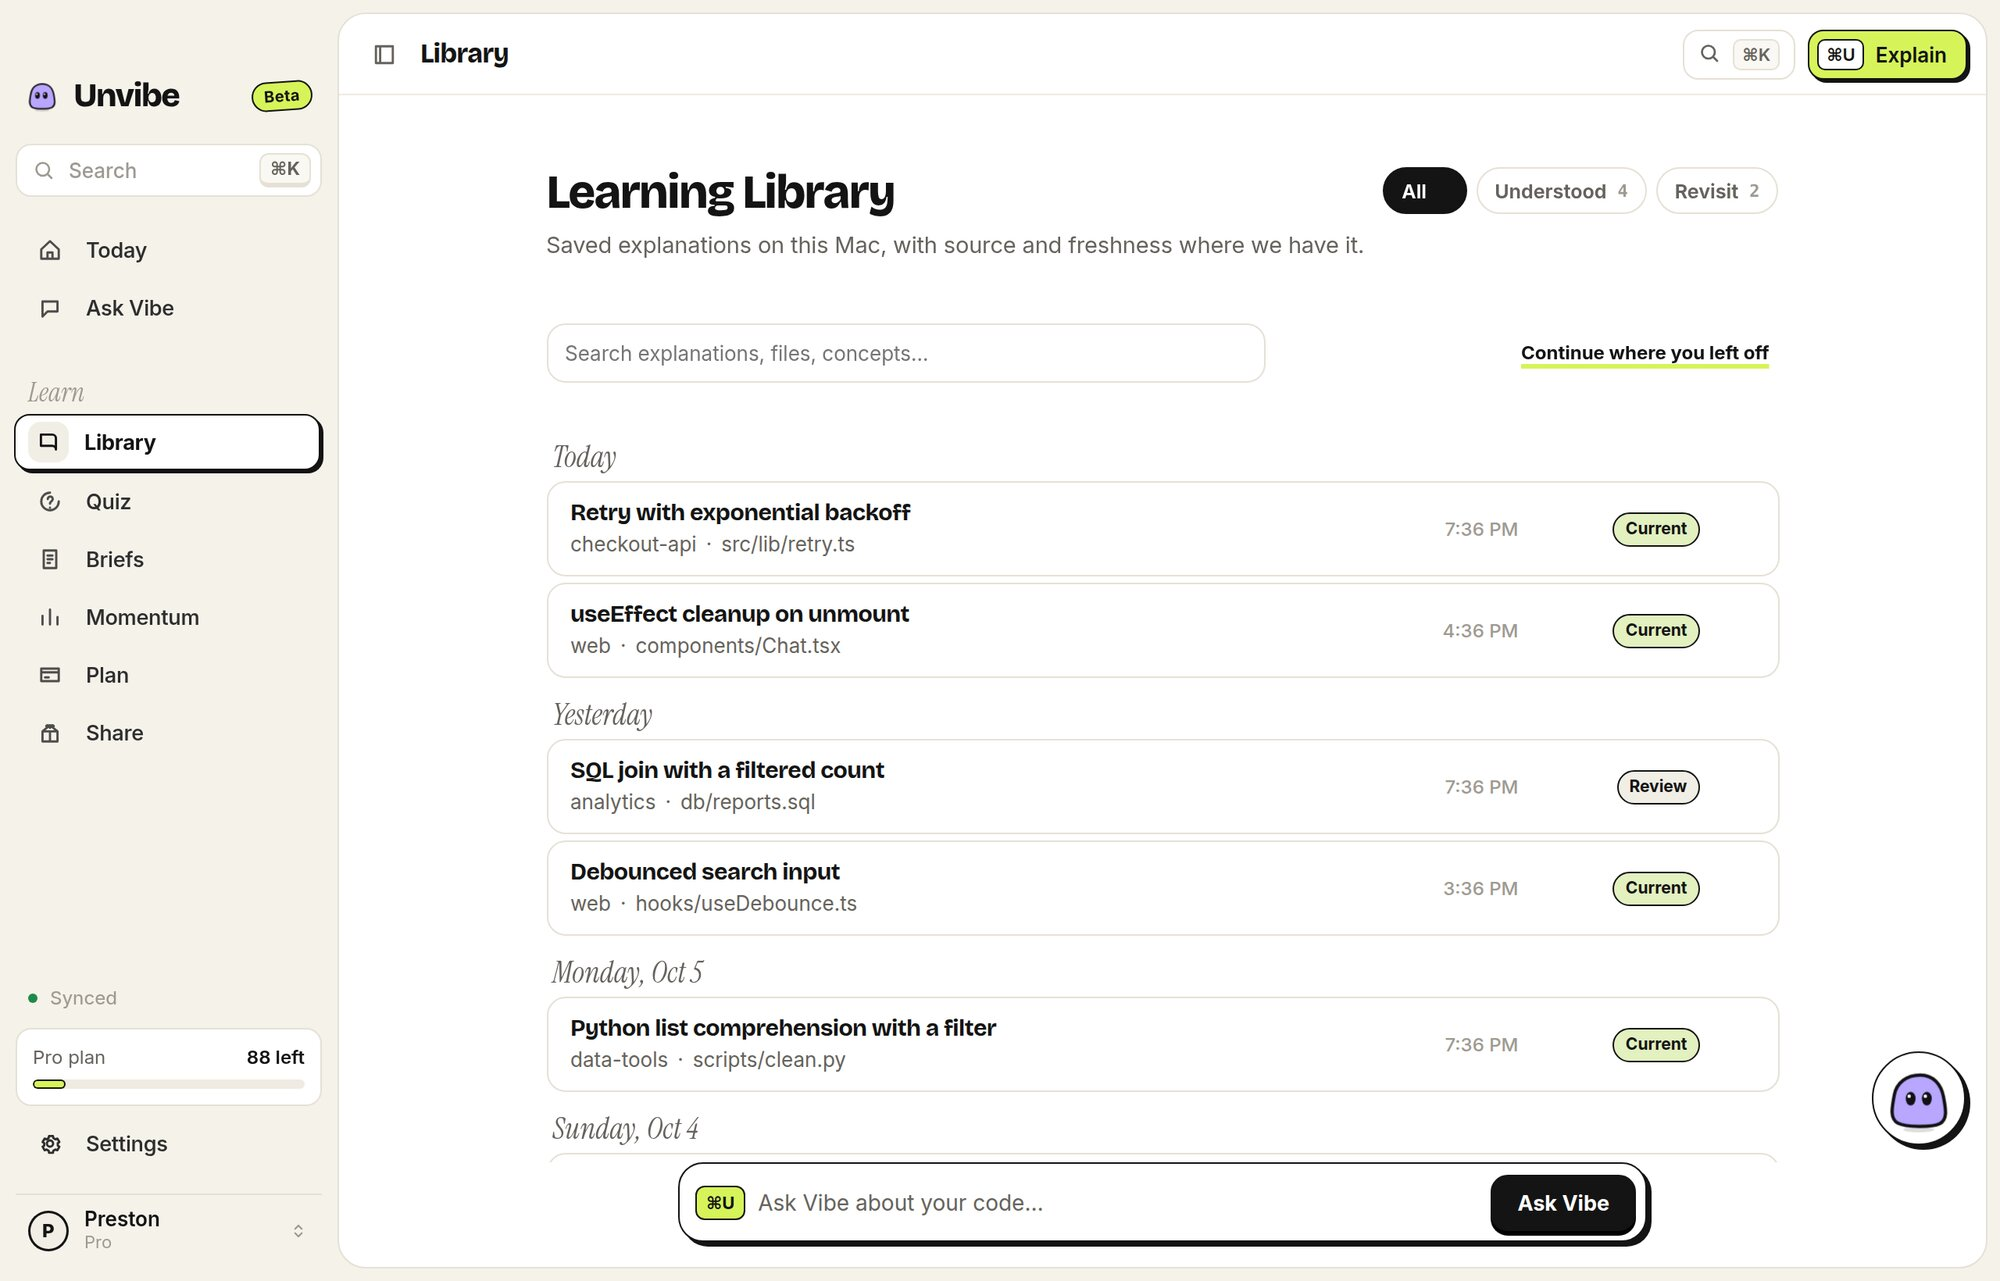
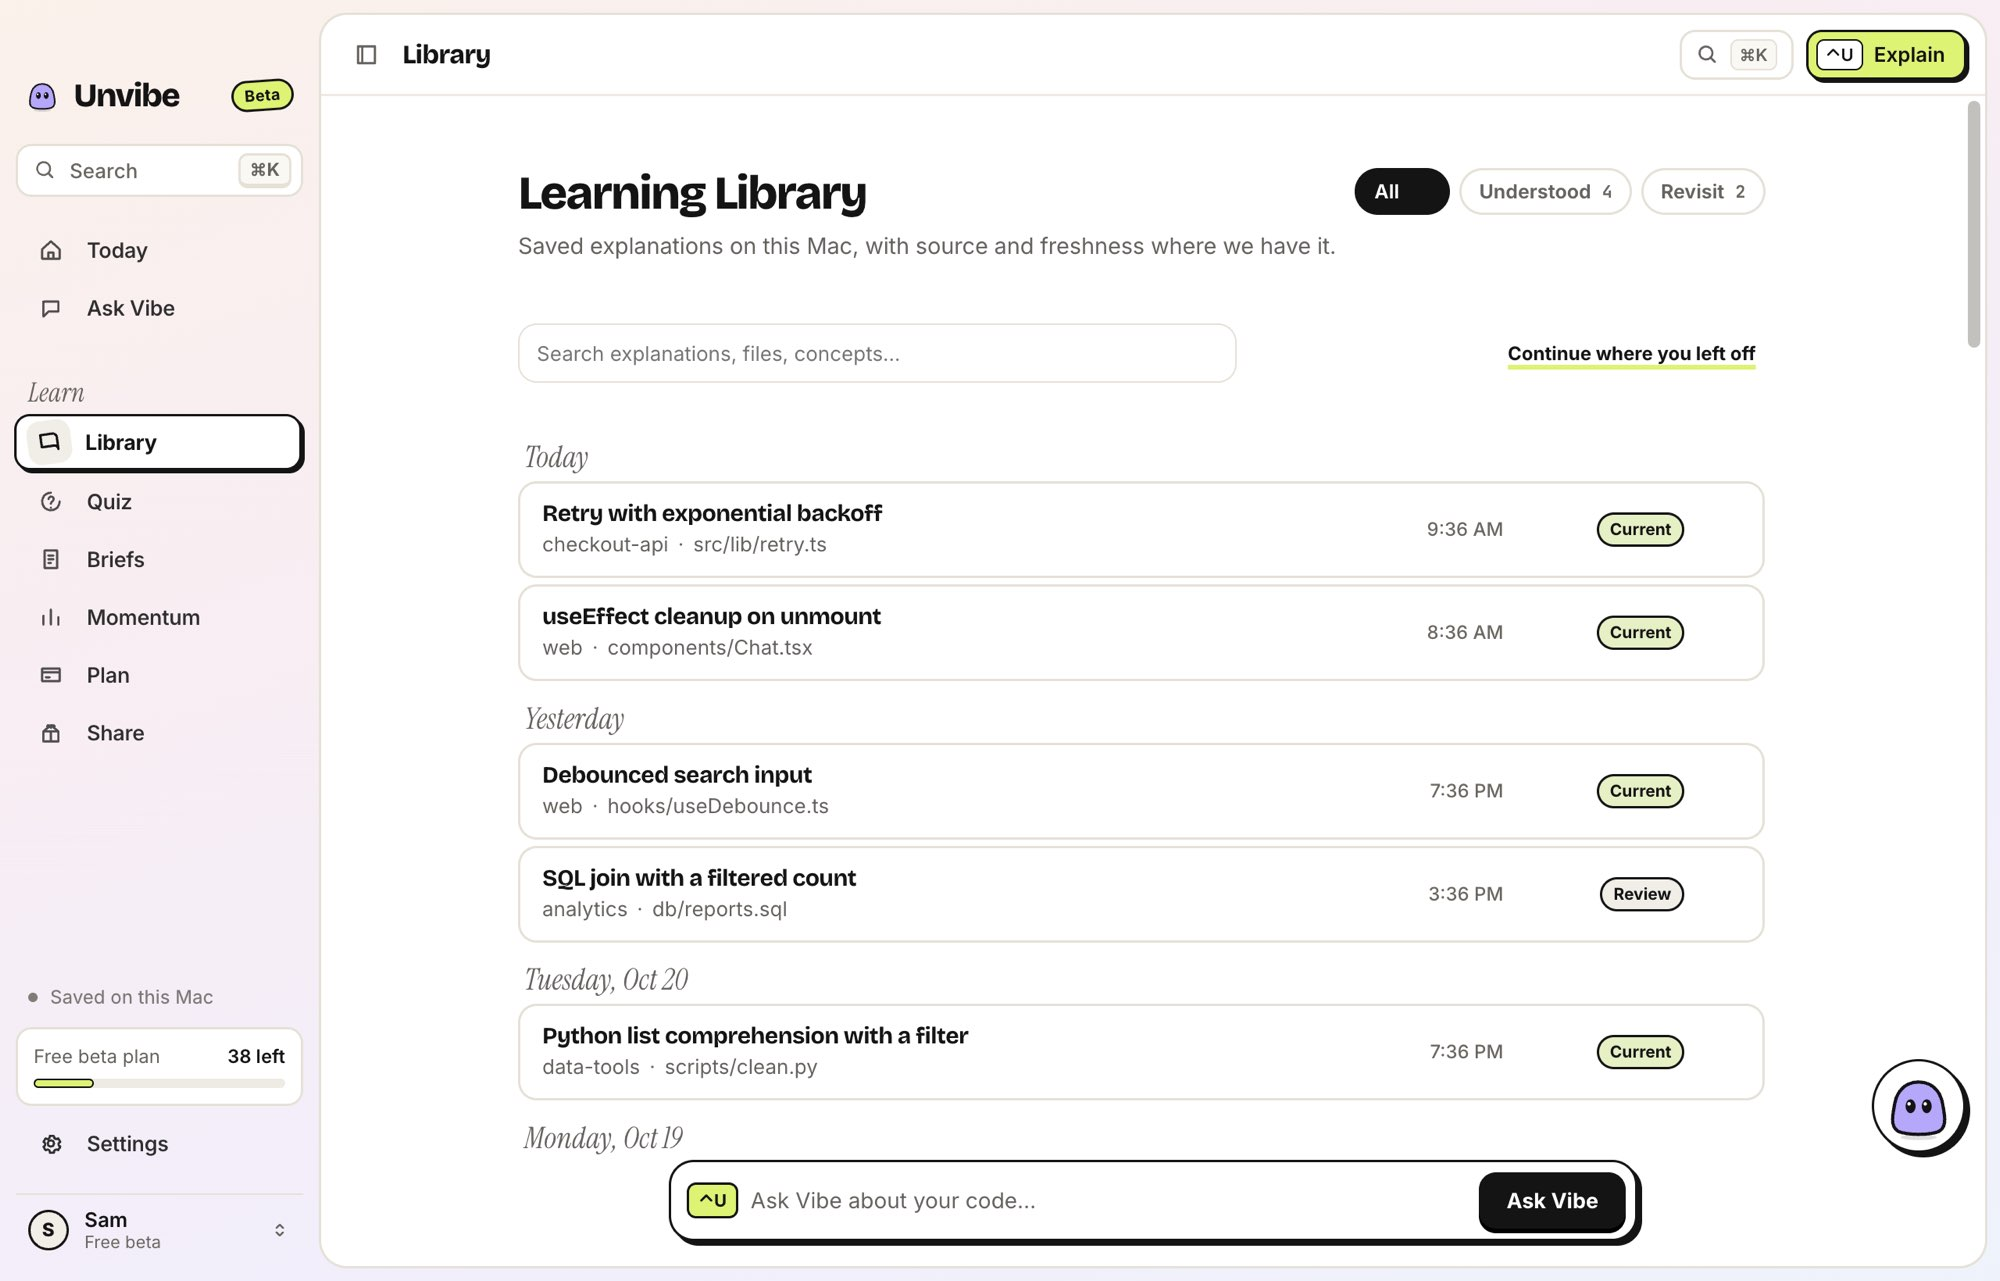
Site: re-shoot the press and product screenshots with a neutral "Sam" profile
The 21 press/app and product frames and press/site/02-home-tour showed the capture
account's name (and its email on Settings > General). Re-shot on the installed Unvibe
0.1.43 with a local signed-out profile named Sam, sample lessons and a demo repo at
/Users/Shared/sam/checkout-api, at the originals' exact dimensions and format.
The four Privacy & Data frames still show the app's support line until the app
release that changes it. HowItWorks now says the Library frame is 0.1.43.

diff --git a/marketing/src/components/paper/HowItWorks.tsx b/marketing/src/components/paper/HowItWorks.tsx
@@ -49,8 +49,8 @@ const PAGES: readonly FlexAccordionItem[] = [
     id: "library",
     label: "Library",
     title: "Library",
-    body: "Saved explanations, their source and whether the code has changed since. Shown: Unvibe 0.1.37 with sample lessons, from the product screenshot collection.",
-    image: { src: "/press/app/03-library.jpg", width: 2000, height: 1281, alt: "Unvibe 0.1.37 Library with sample lessons and Current or Review freshness labels" },
+    body: "Saved explanations, their source and whether the code has changed since. Shown: Unvibe 0.1.43 with sample lessons, from the product screenshot collection.",
+    image: { src: "/press/app/03-library.jpg", width: 2000, height: 1281, alt: "Unvibe 0.1.43 Library with sample lessons and Current or Review freshness labels" },
   },
   {
     id: "briefs",
@@ -108,7 +108,7 @@ export function HowItWorks() {
             <h2 id="pages-title" className="mt-3">Where it <em>sticks.</em></h2>
           </div>
           <FlexAccordion items={PAGES} shape="wide" label="Pages in the Unvibe app" />
-          <p className="hiw__note">Recorded on a {demo.platform} with Unvibe {demo.version}, except Library: Unvibe 0.1.37 with sample lessons.</p>
+          <p className="hiw__note">Recorded on a {demo.platform} with Unvibe {demo.version}, except Library: Unvibe 0.1.43 with sample lessons.</p>
         </div>
       </section>
     </>
